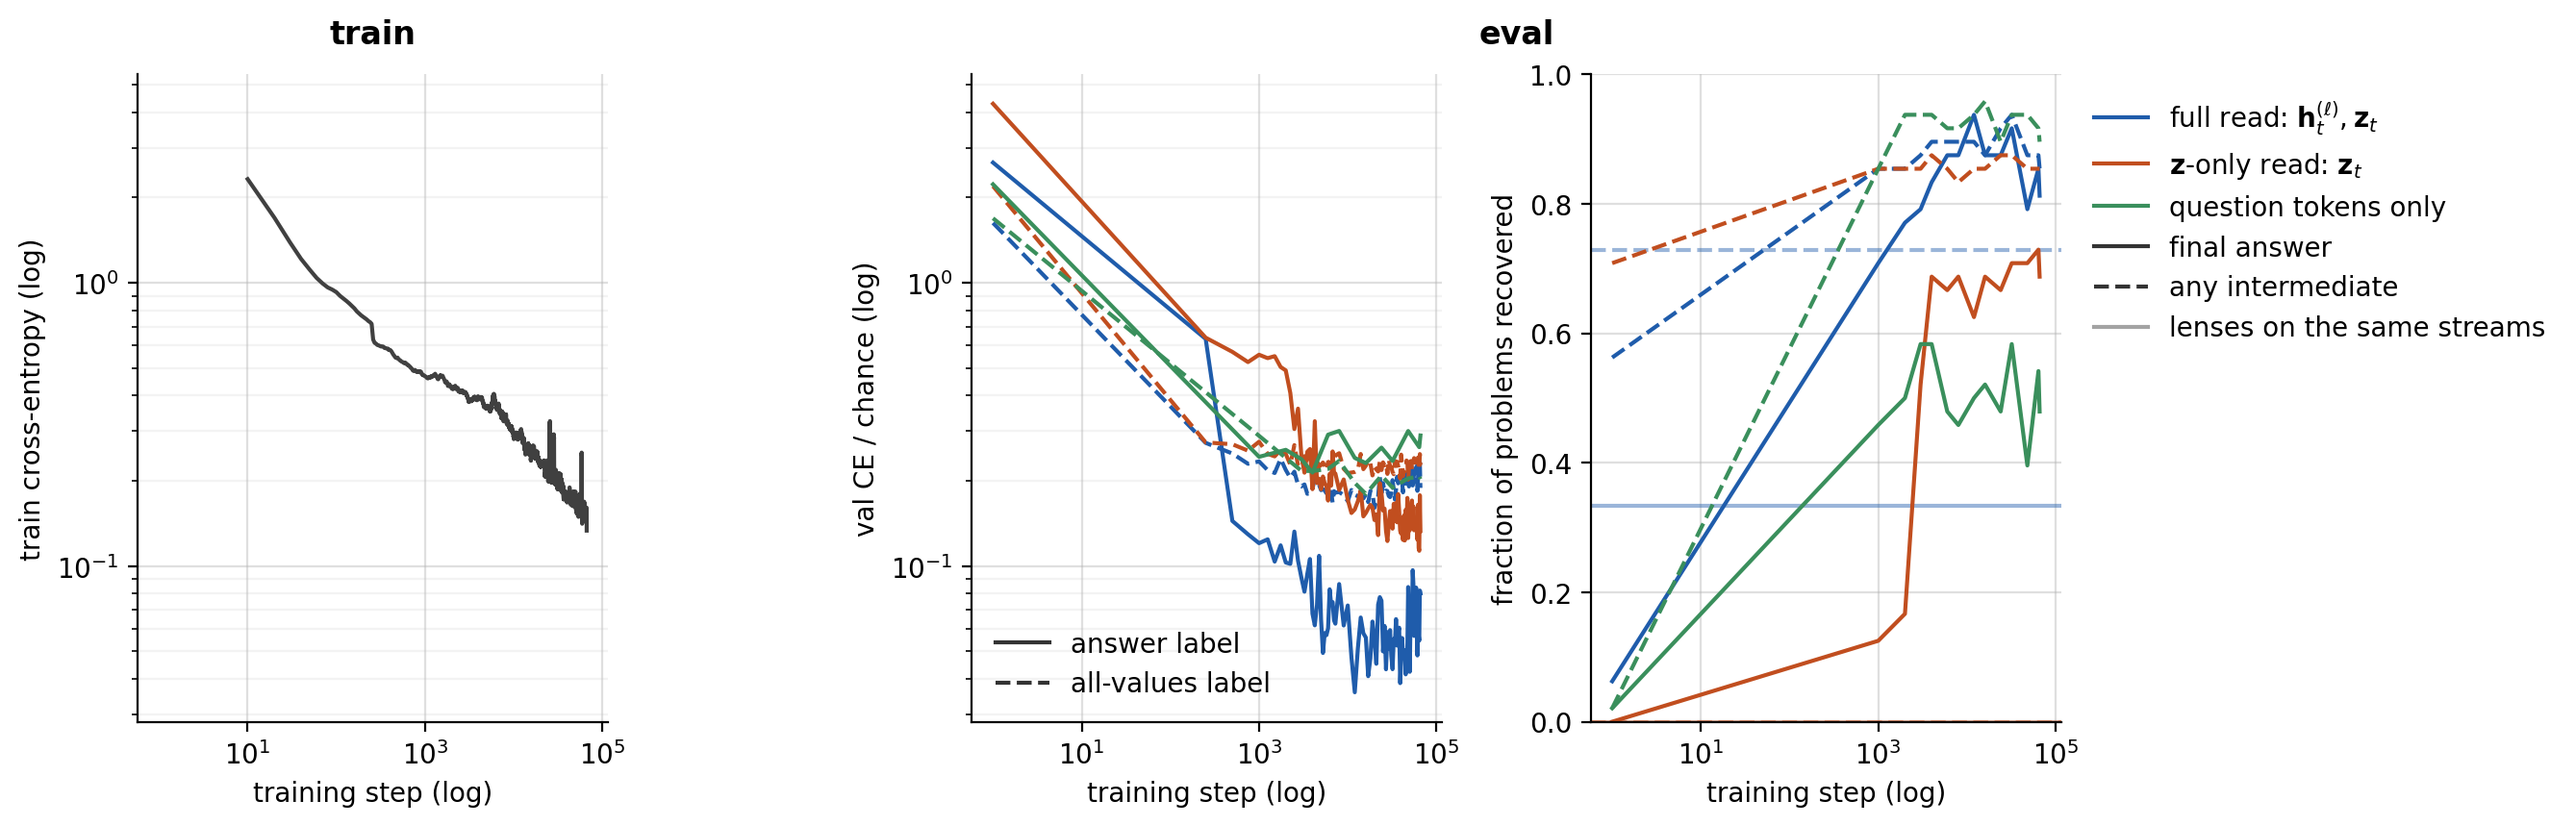
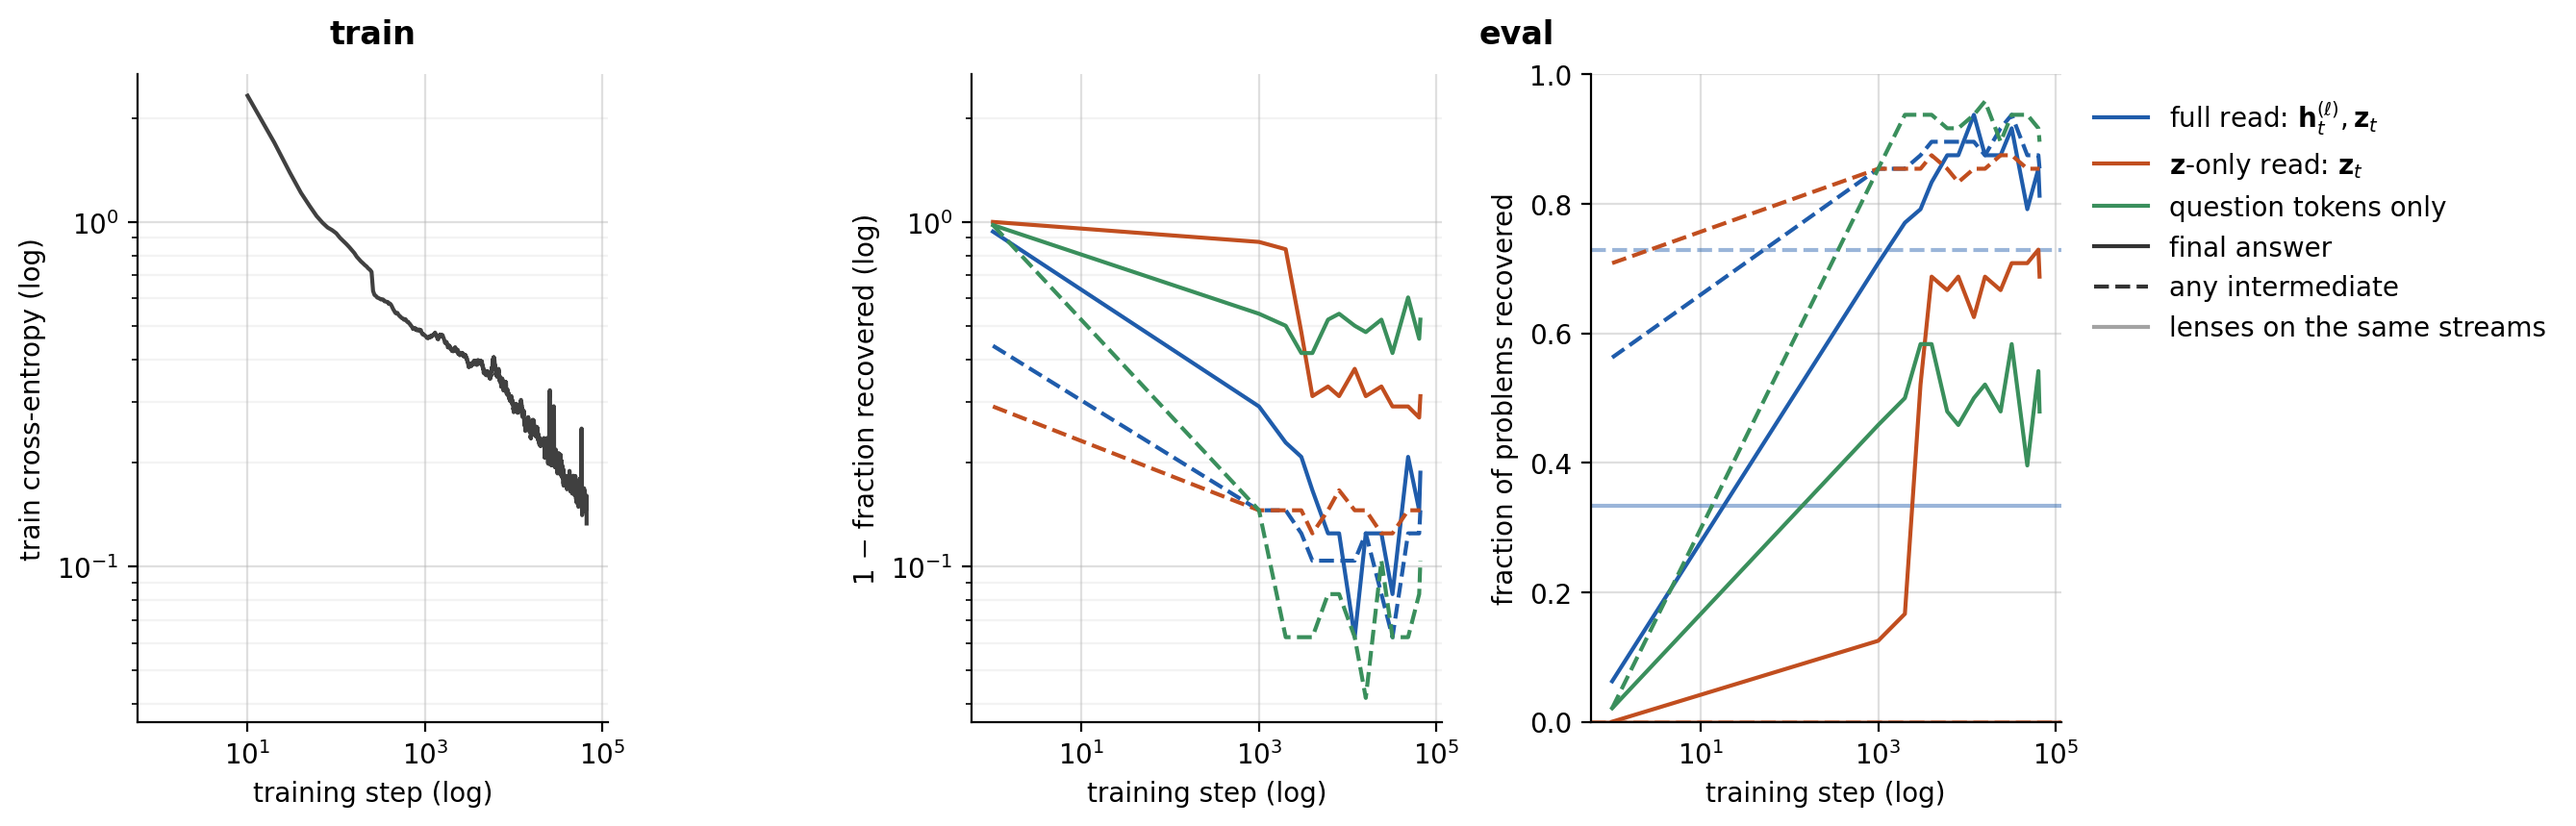
AO scaling figure: middle panel shows double-log 1 - fraction recovered
The full fd1 figure (post Appendix E) replaces the val CE / chance panel with the
eval panel's curves as 1 - fraction recovered on the train panel's double-log axes,
matching the NLA scaling figure.

diff --git a/figures/fig_03_fd1_performance.py b/figures/fig_03_fd1_performance.py
@@ -6,7 +6,7 @@ color, the legend outside the right of the eval panel.
 
 TWO OUTPUTS FROM ONE DATA PASS: the post variant (Appendix D, FIG_OUT) shows train +
 decode score; the full variant (Appendix E, FIG_OUT_FULL) adds a middle double-log
-val CE / chance panel (identical limits with the train panel).
+1 - fraction recovered panel (identical limits with the train panel), as fig_12.
 
 Left (train): online train CE vs step, double log, centered rolling mean (half-width
 up to 25 log points = 250 steps, shrinking at the edges), from step 10. The trainer
@@ -20,9 +20,8 @@ layers + prj(h^(36)_q) over question tokens). The untrained init (step 0) is dra
 step 1. Faint horizontal lines: LogitLens / J-lens on the same streams and questions
 with the same criterion, a problem counted if either lens finds the value (as fig_12).
 The full variant draws a grid on every panel.
-Middle (full variant): held-out val CE over chance, SOLID = answer label, DASHED =
-all-intermediate-values label; chance = per-token NLL under a unigram fit on the
-label's own targets.
+Middle (full variant): the eval panel's curves as 1 - fraction recovered, same colors
+and linestyles, the init drawn at step 1.
 
 Inputs (env-overridable):
   AO_CURVES    default artifacts/ao_curves.json
@@ -47,7 +46,6 @@ LAB = {"ALL": r"full read: $\mathbf{h}^{(\ell)}_t, \mathbf{z}_t$",
        "qonly6": "question tokens only"}
 LENS_SRC = {"ALL": "ao_ALL", "Z": "ao_Z"}
 CRIT = [("answer", "final answer", "-"), ("intermediate", "any intermediate", "--")]
-VAL_LS = {"answer": "-", "allvals": "--"}
 
 data = json.load(open(CURVES_F))
 
@@ -80,19 +78,6 @@ for feed in FEEDS:
         ys = EVAL[(feed, crit)][1]
         print(f"{feed:>6} {crit:12s} init {ys[0]:.2f} -> final {ys[-1]:.2f}")
 
-val = {}
-for r in data["val_rows"]:
-    for k, v in r.items():
-        if "|" in k:
-            val.setdefault(k, {})[r["step"]] = v
-qval = {r["step"]: r for r in data["question_val_rows"]}
-VAL = {}      # (feed, label) -> (steps, CE / chance)
-for feed in FEEDS:
-    for lab in VAL_LS:
-        rows = {s: r[f"qonly6|{lab}"] for s, r in qval.items()} if feed == "qonly6" else val[f"{feed}|{lab}"]
-        st = sorted(rows)
-        VAL[(feed, lab)] = ([max(s, 1) for s in st], [rows[s] / data["chance"][lab] for s in st])
-
 LENS = {}
 for r in json.load(open(LENS_F)):
     if r["src"] in LENS_SRC.values():
@@ -119,12 +104,12 @@ def render(out, with_mid):
 
     for feed in FEEDS:
         for crit, _, ls in CRIT:
-            axa.plot(*EVAL[(feed, crit)], color=COL[feed], ls=ls)
+            steps, ys = EVAL[(feed, crit)]
+            axa.plot(steps, ys, color=COL[feed], ls=ls)
             if feed in LENS_SRC:
                 axa.axhline(LENS[(LENS_SRC[feed], crit)], color=COL[feed], ls=ls, alpha=0.45)
-        if axv is not None:
-            for lab, ls in VAL_LS.items():
-                axv.plot(*VAL[(feed, lab)], color=COL[feed], ls=ls)
+            if axv is not None:
+                axv.plot(steps, [1 - y for y in ys], color=COL[feed], ls=ls)
     axa.set_xscale("log")
     axa.set_xlabel("training step (log)")
     axa.set_ylabel("fraction of problems recovered")
@@ -139,9 +124,7 @@ def render(out, with_mid):
         axv.set_xscale("log")
         axv.set_yscale("log")
         axv.set_xlabel("training step (log)")
-        axv.set_ylabel("val CE / chance (log)")
-        axv.legend(handles=[plt.Line2D([], [], color="0.2", ls=ls, label=f"{lab} label")
-                            for lab, ls in (("answer", "-"), ("all-values", "--"))], loc="lower left", frameon=False)
+        axv.set_ylabel("1 − fraction recovered (log)")
         yl = (min(a.get_ylim()[0] for a in panels), max(a.get_ylim()[1] for a in panels))
         for a in panels:
             a.set_ylim(yl)
